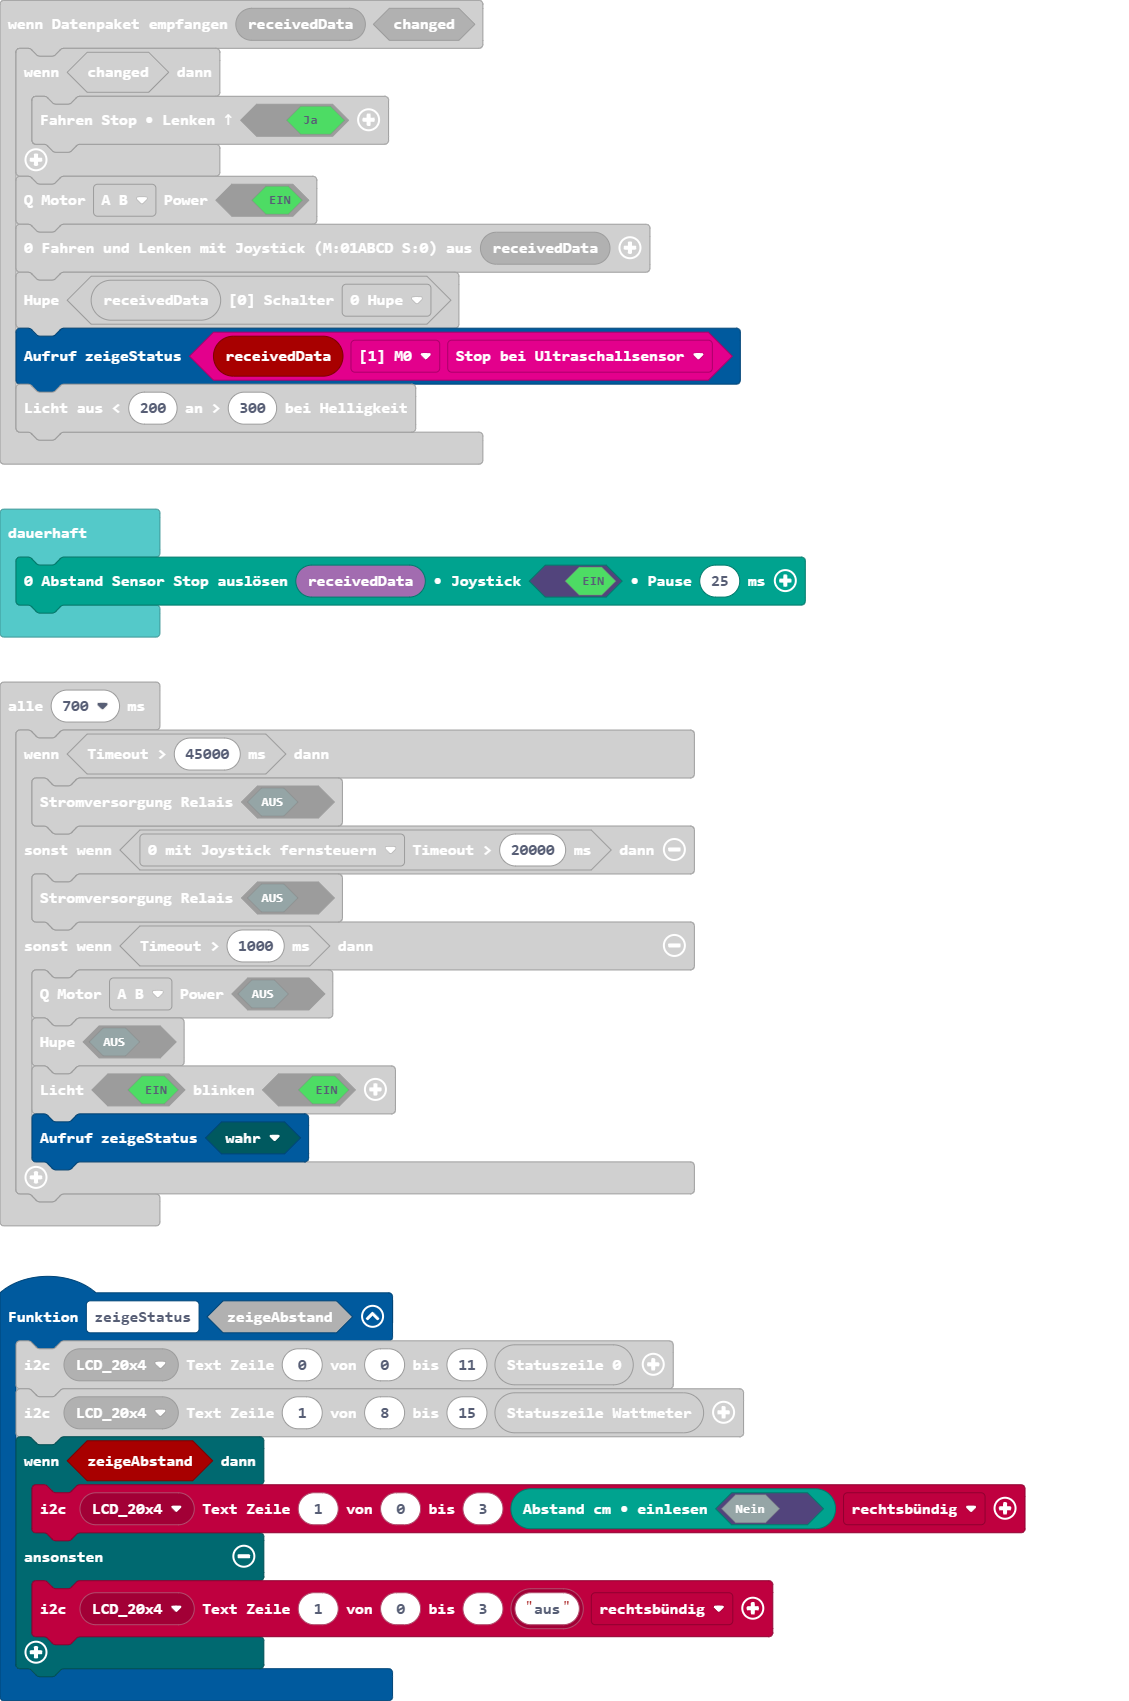
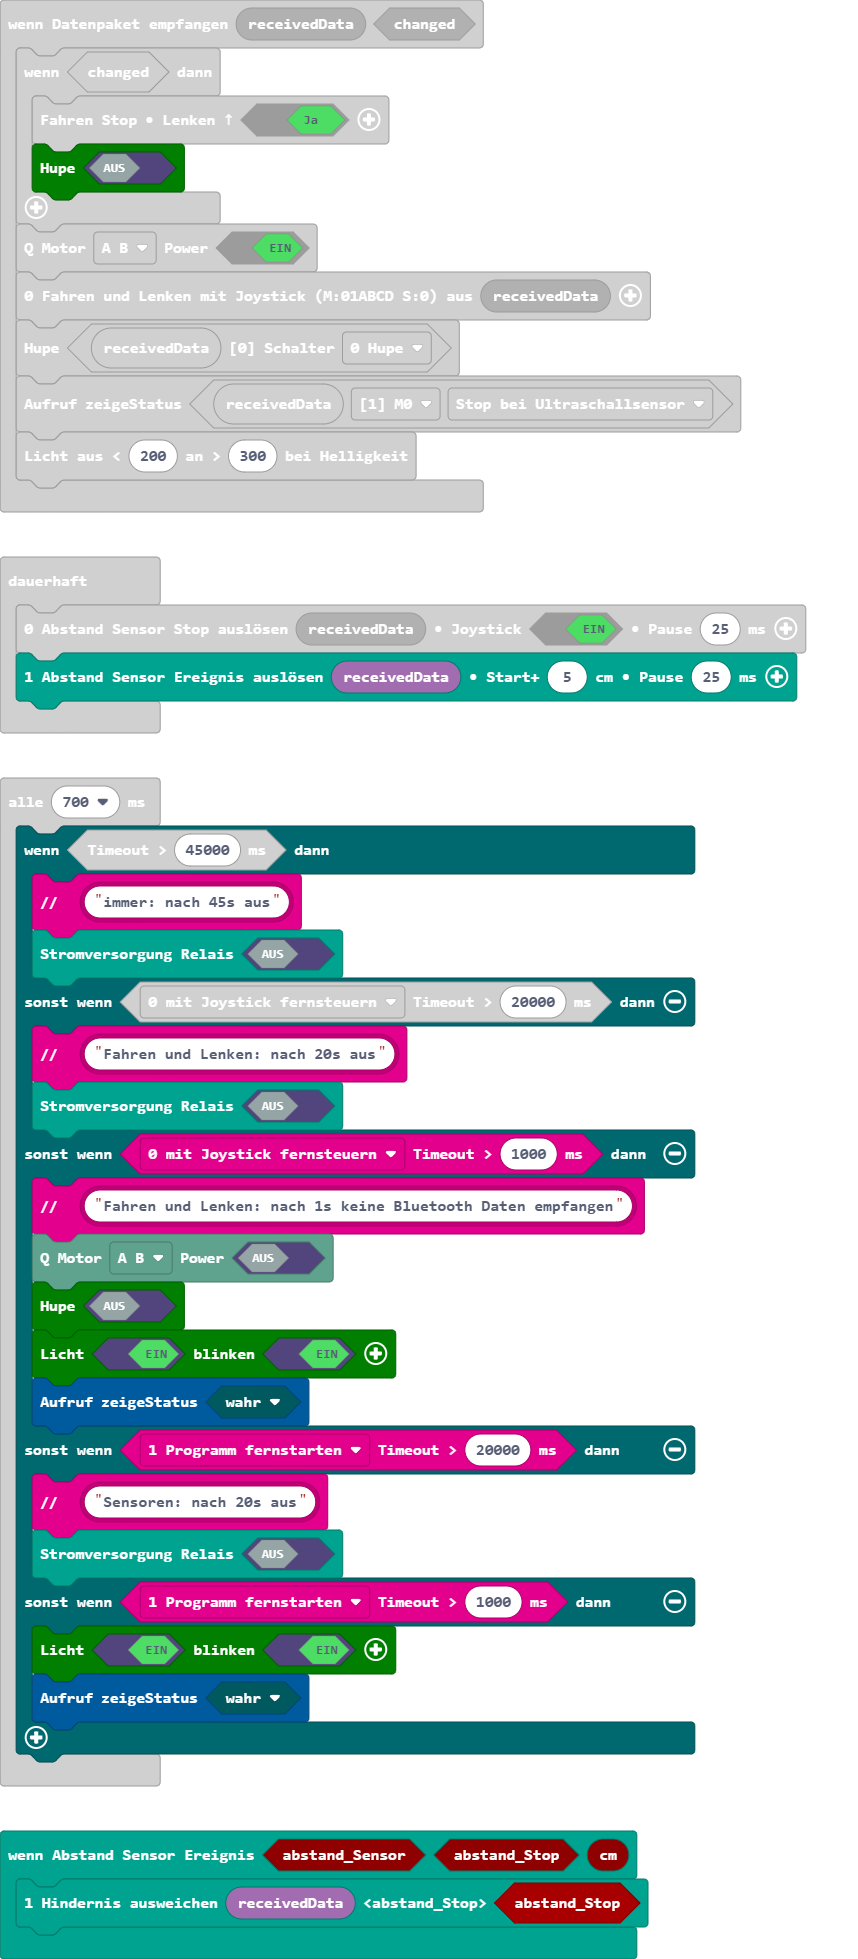
Aktualisiere main.blocks, main.ts

diff --git a/main.ts b/main.ts
@@ -17,9 +17,13 @@ function zeigeStatus (zeigeAbstand: boolean) {
 input.onButtonEvent(Button.B, input.buttonEventClick(), function () {
     receiver.pinRelay(false)
 })
+receiver.onAbstandEvent(function (abstand_Sensor, abstand_Stop, cm) {
+    receiver.buffer_Hindernis_ausweichen(btf.btf_receivedBuffer19(), abstand_Stop)
+})
 btf.onReceivedDataChanged(function (receivedData, changed) {
     if (changed) {
         receiver.selectMotorStop(true)
+        car.buzzer(false)
     }
     receiver.qwiicMotorChipPower(receiver.eQwiicMotorChip.ab, true)
     receiver.fahreJoystick(btf.btf_receivedBuffer19())
@@ -52,15 +56,25 @@ if (!(btf.simulator())) {
 }
 basic.forever(function () {
     receiver.buffer_raiseAbstandMotorStop(btf.btf_receivedBuffer19())
+    receiver.buffer_raiseAbstandEvent(btf.btf_receivedBuffer19())
 })
 loops.everyInterval(700, function () {
     if (btf.timeout(45000)) {
+        btf.comment(btf.btf_text("immer: nach 45s aus"))
         receiver.pinRelay(false)
     } else if (btf.timeoutReceivedBuffer(btf.e0Betriebsart.p0Fahren, 20000)) {
+        btf.comment(btf.btf_text("Fahren und Lenken: nach 20s aus"))
         receiver.pinRelay(false)
-    } else if (btf.timeout(1000)) {
+    } else if (btf.timeoutReceivedBuffer(btf.e0Betriebsart.p0Fahren, 1000)) {
+        btf.comment(btf.btf_text("Fahren und Lenken: nach 1s keine Bluetooth Daten empfangen"))
         receiver.qwiicMotorChipPower(receiver.eQwiicMotorChip.ab, false)
         car.buzzer(false)
+        car.licht(true, true)
+        zeigeStatus(true)
+    } else if (btf.timeoutReceivedBuffer(btf.e0Betriebsart.p1Lokal, 20000)) {
+        btf.comment(btf.btf_text("Sensoren: nach 20s aus"))
+        receiver.pinRelay(false)
+    } else if (btf.timeoutReceivedBuffer(btf.e0Betriebsart.p1Lokal, 1000)) {
         car.licht(true, true)
         zeigeStatus(true)
     }
